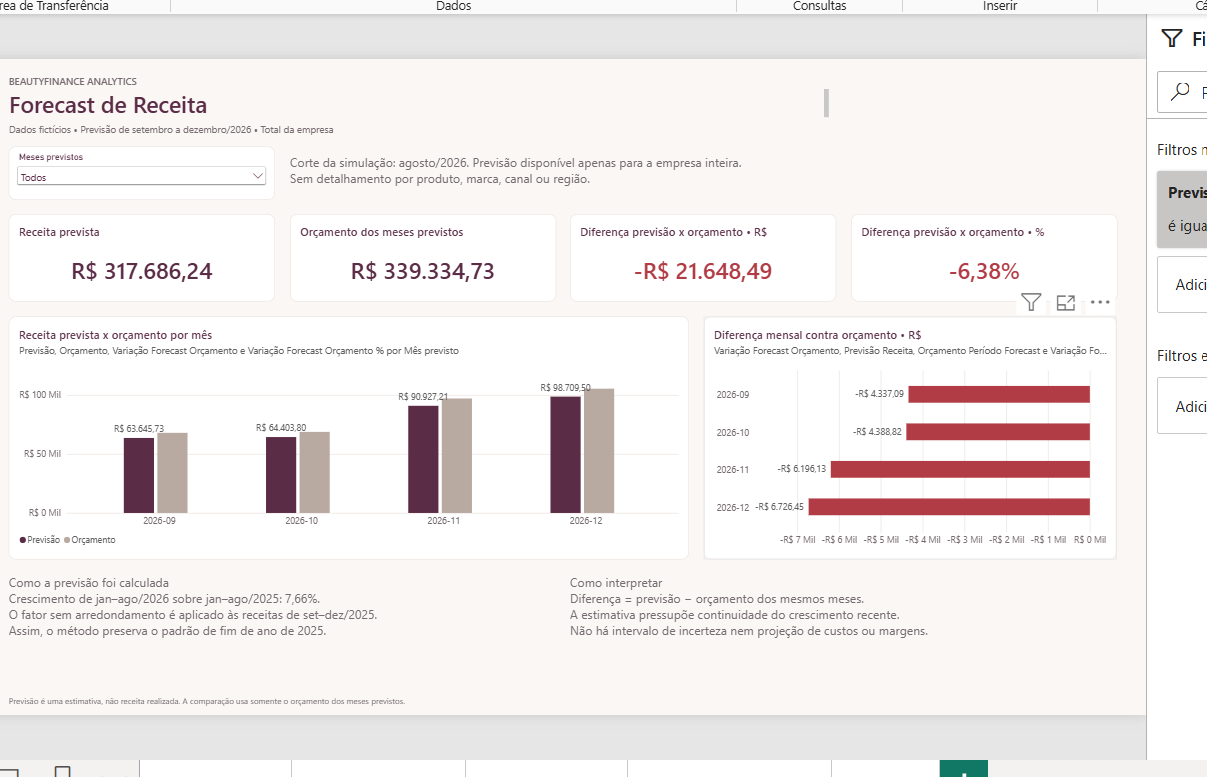
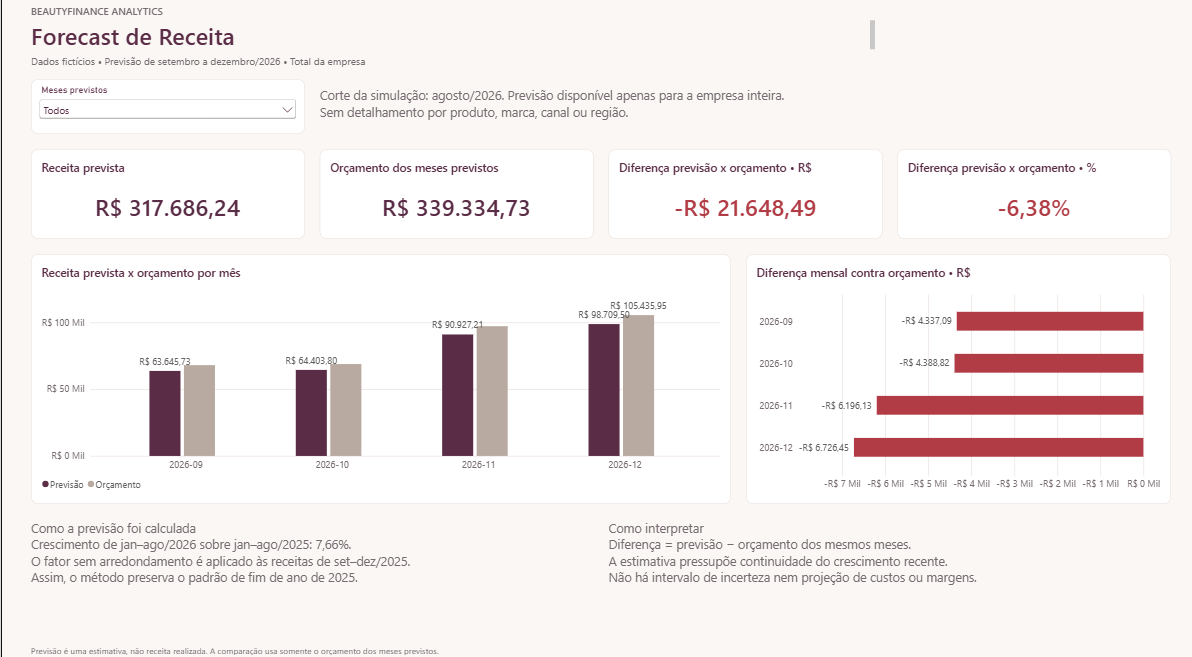
docs: add updated dashboard screenshots and gallery

diff --git a/README.md b/README.md
@@ -1,4 +1,4 @@
-# BeautyFinance Analytics
+# BeautyFinance Analytics
 
 Análise financeira e comercial de uma empresa fictícia de cosméticos, com dados tratados em Python, consultas em PostgreSQL/Supabase e dashboard em Power BI.
 
@@ -33,9 +33,27 @@ O histórico disponível vai de janeiro de 2024 a agosto de 2026. O orçamento c
 | Orçamento x Realizado | Metas, diferenças em reais e percentuais por mês, marca e categoria |
 | Forecast | Previsão mensal de receita e comparação com o orçamento futuro |
 
+### Visão Executiva
+
+![Visão Executiva: indicadores e desempenho de janeiro a agosto de 2026](docs/images/visao-executiva.png)
+
+### Produtos e Marcas
+
+![Produtos e Marcas: receita por produto e marca e margem por categoria](docs/images/produtos-marcas.png)
+
+### Canais e Regiões
+
+![Canais e Regiões: receita e margem por canal e região](docs/images/canais-regioes.png)
+
+### Orçamento x Realizado
+
+![Orçamento x Realizado: comparação mensal, por marca e por categoria](docs/images/orcamento-realizado.png)
+
+### Forecast
+
 ![Forecast de receita de setembro a dezembro de 2026](docs/images/forecast-receita.png)
 
-*Captura do Desktop anterior à melhoria que ocultou os subtítulos automáticos dos gráficos. Os valores exibidos correspondem ao cenário documentado.*
+*Capturas atuais do Desktop, após a melhoria de legibilidade dos gráficos. As páginas de realizado mostram 2026, com os demais filtros em Todos; o Forecast mostra os quatro meses previstos.*
 
 ## Forecast: método e limites
 
@@ -118,7 +136,7 @@ As cinco páginas estão implementadas. Os testes de filtros, cliques e anos his
 
 A base tem 22.734 linhas de vendas, 15.000 pedidos distintos no histórico e 9.828 linhas de orçamento. A validação local de arquivos não substitui a execução do modelo no Desktop. O [relatório de revisão](docs/revisao_dashboard_powerbi.md) distingue capturas, resultados apresentados e confirmações textuais.
 
-Próximas melhorias: capturas atualizadas das cinco páginas, análises complementares em Excel e apresentação final do portfólio.
+As cinco capturas atuais do dashboard estão incluídas acima. Próximas melhorias: análises complementares em Excel e apresentação final do portfólio.
 
 ## Documentação
 

diff --git a/docs/revisao_dashboard_powerbi.md b/docs/revisao_dashboard_powerbi.md
@@ -162,3 +162,17 @@ Os 16 gráficos preservam subTitle.show=false após salvar. Não foram recebidas
 capturas das outras quatro páginas para este ajuste visual.
 O registro desta etapa inclui apenas a propriedade dos subtítulos e este
 documento; demais alterações do Desktop permanecem separadas.
+
+## Capturas atuais conferidas em 27/10/2026
+
+As cinco imagens de docs/images foram inspecionadas visualmente: Visão
+Executiva, Produtos e Marcas, Canais e Regiões, Orçamento x Realizado e Forecast.
+As quatro páginas de realizado mostram Ano 2026 e demais filtros em Todos,
+sem seleção de barras visível. Indicadores de 2026 coincidem com os valores
+já documentados. Forecast mostra os quatro meses, filtro Todos, previsão de
+317.686,24, orçamento de 339.334,73 e diferença de -21.648,49 (-6,38%).
+Os gráficos estão sem os subtítulos automáticos longos. A captura final do
+Forecast também está sem a borda de seleção do título. Essas imagens
+complementam a conferência visual das cinco páginas após o ajuste; não
+representam uma nova execução das consultas DAX. README atualizado com a
+galeria completa, substituindo a indicação de captura histórica.
